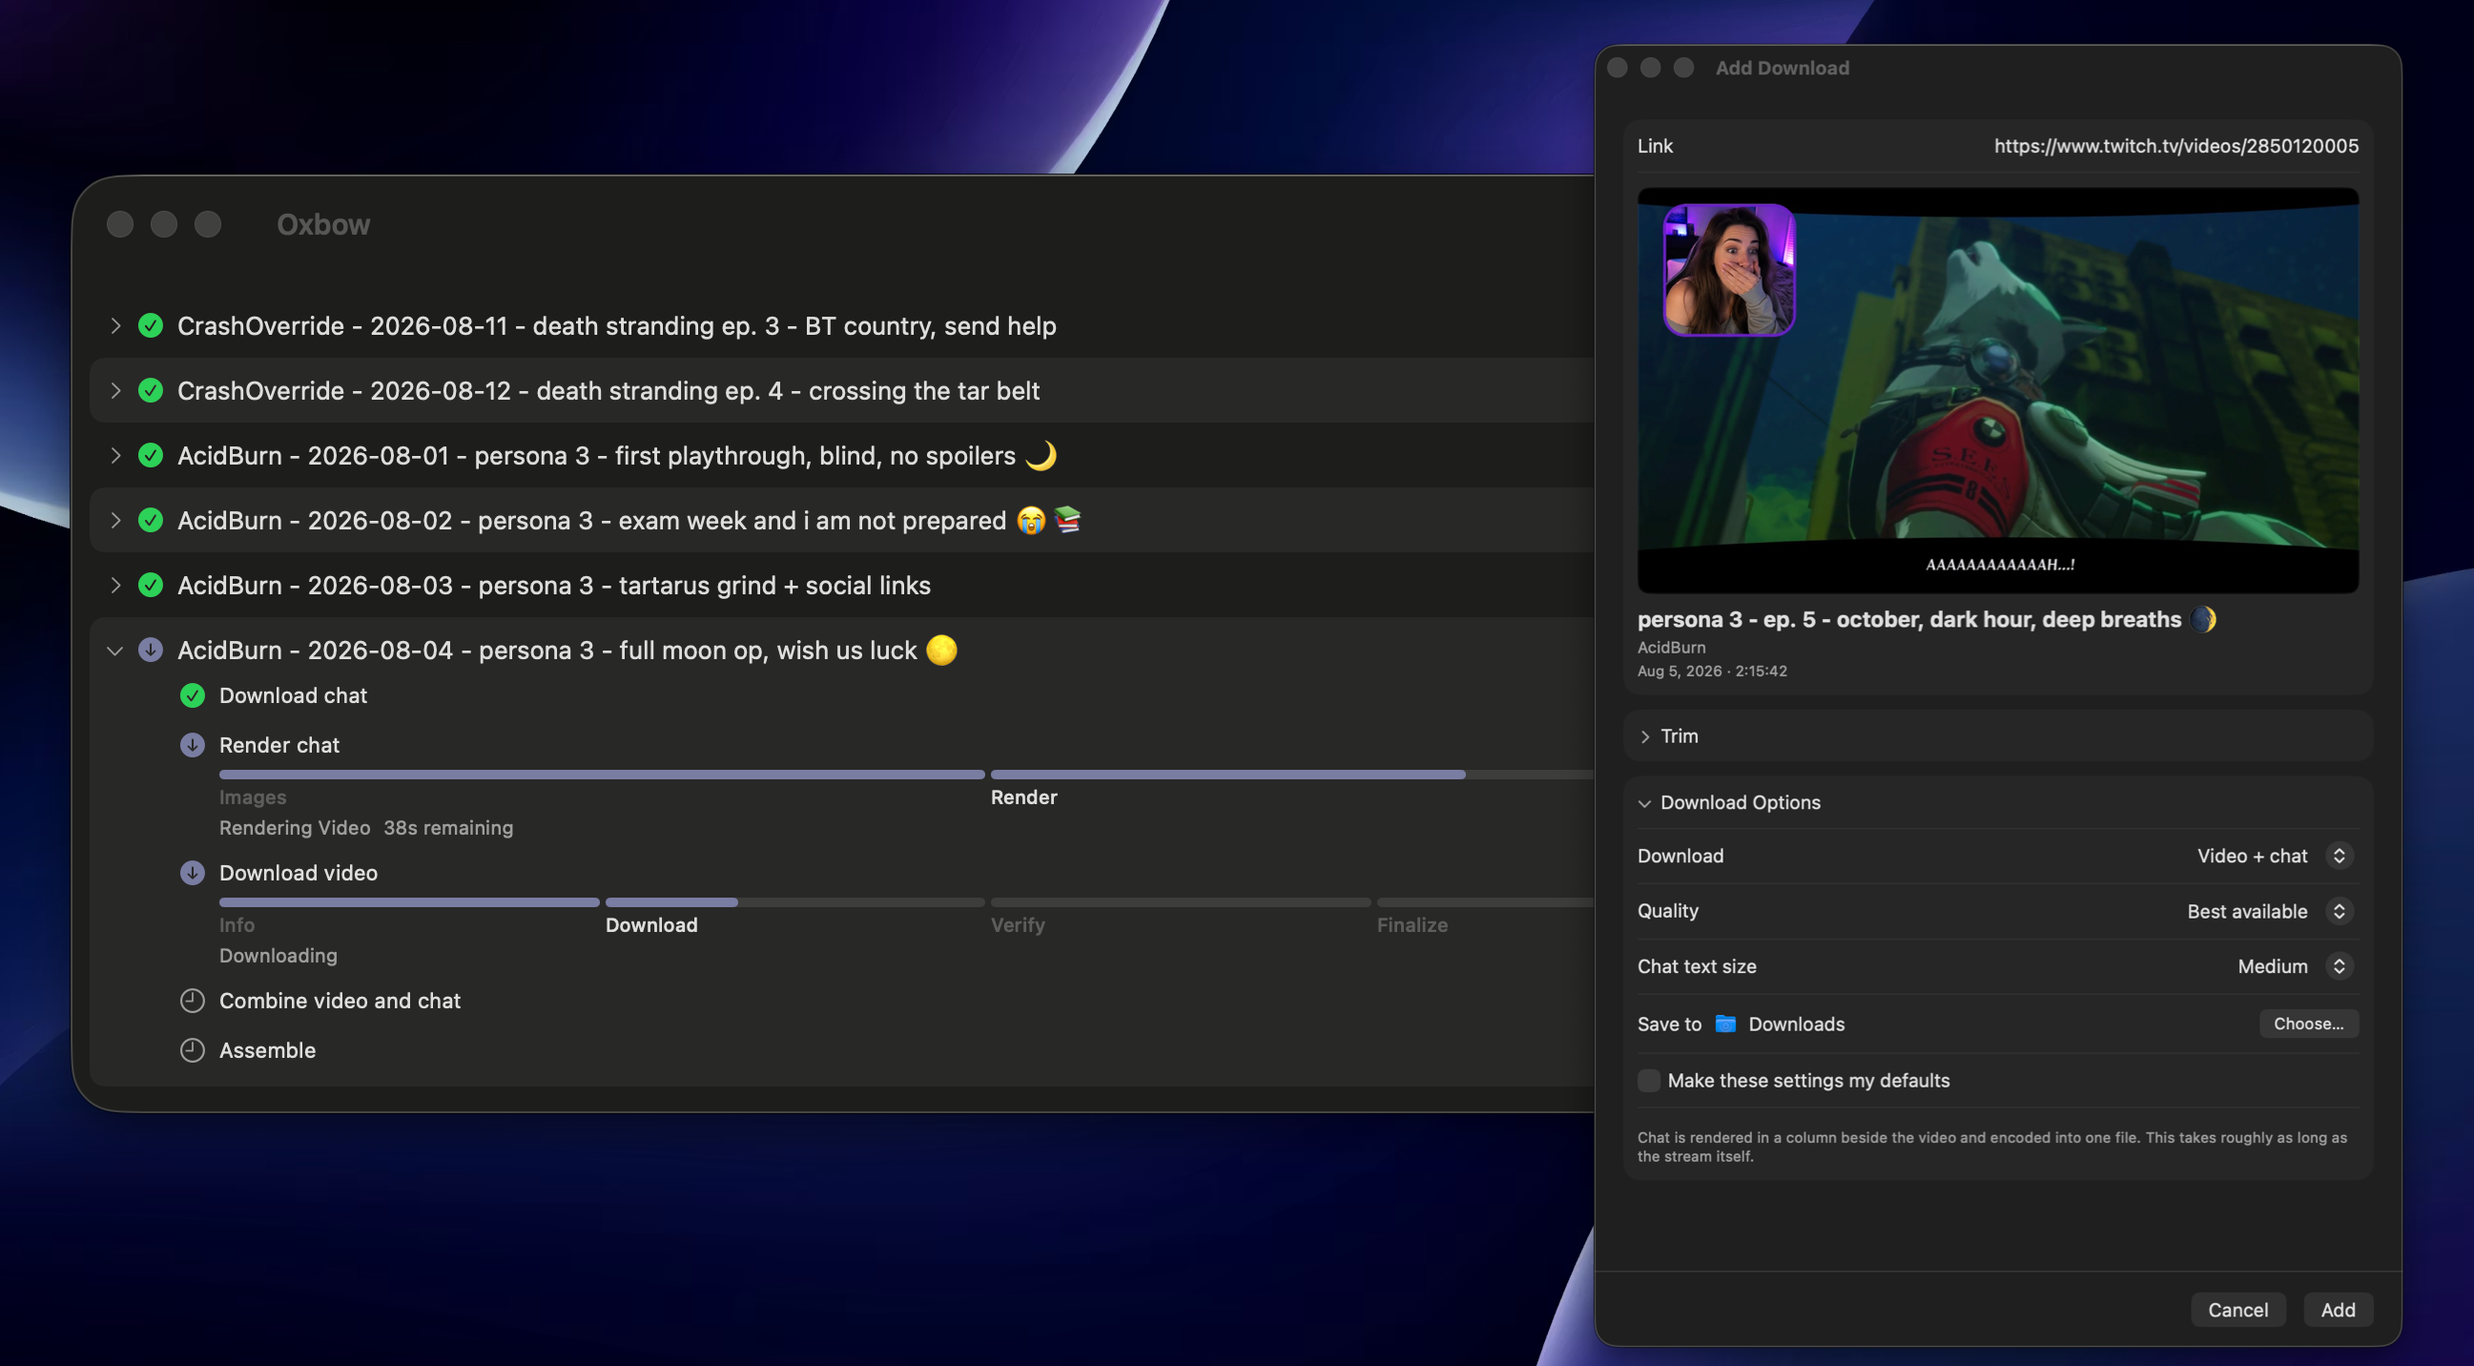
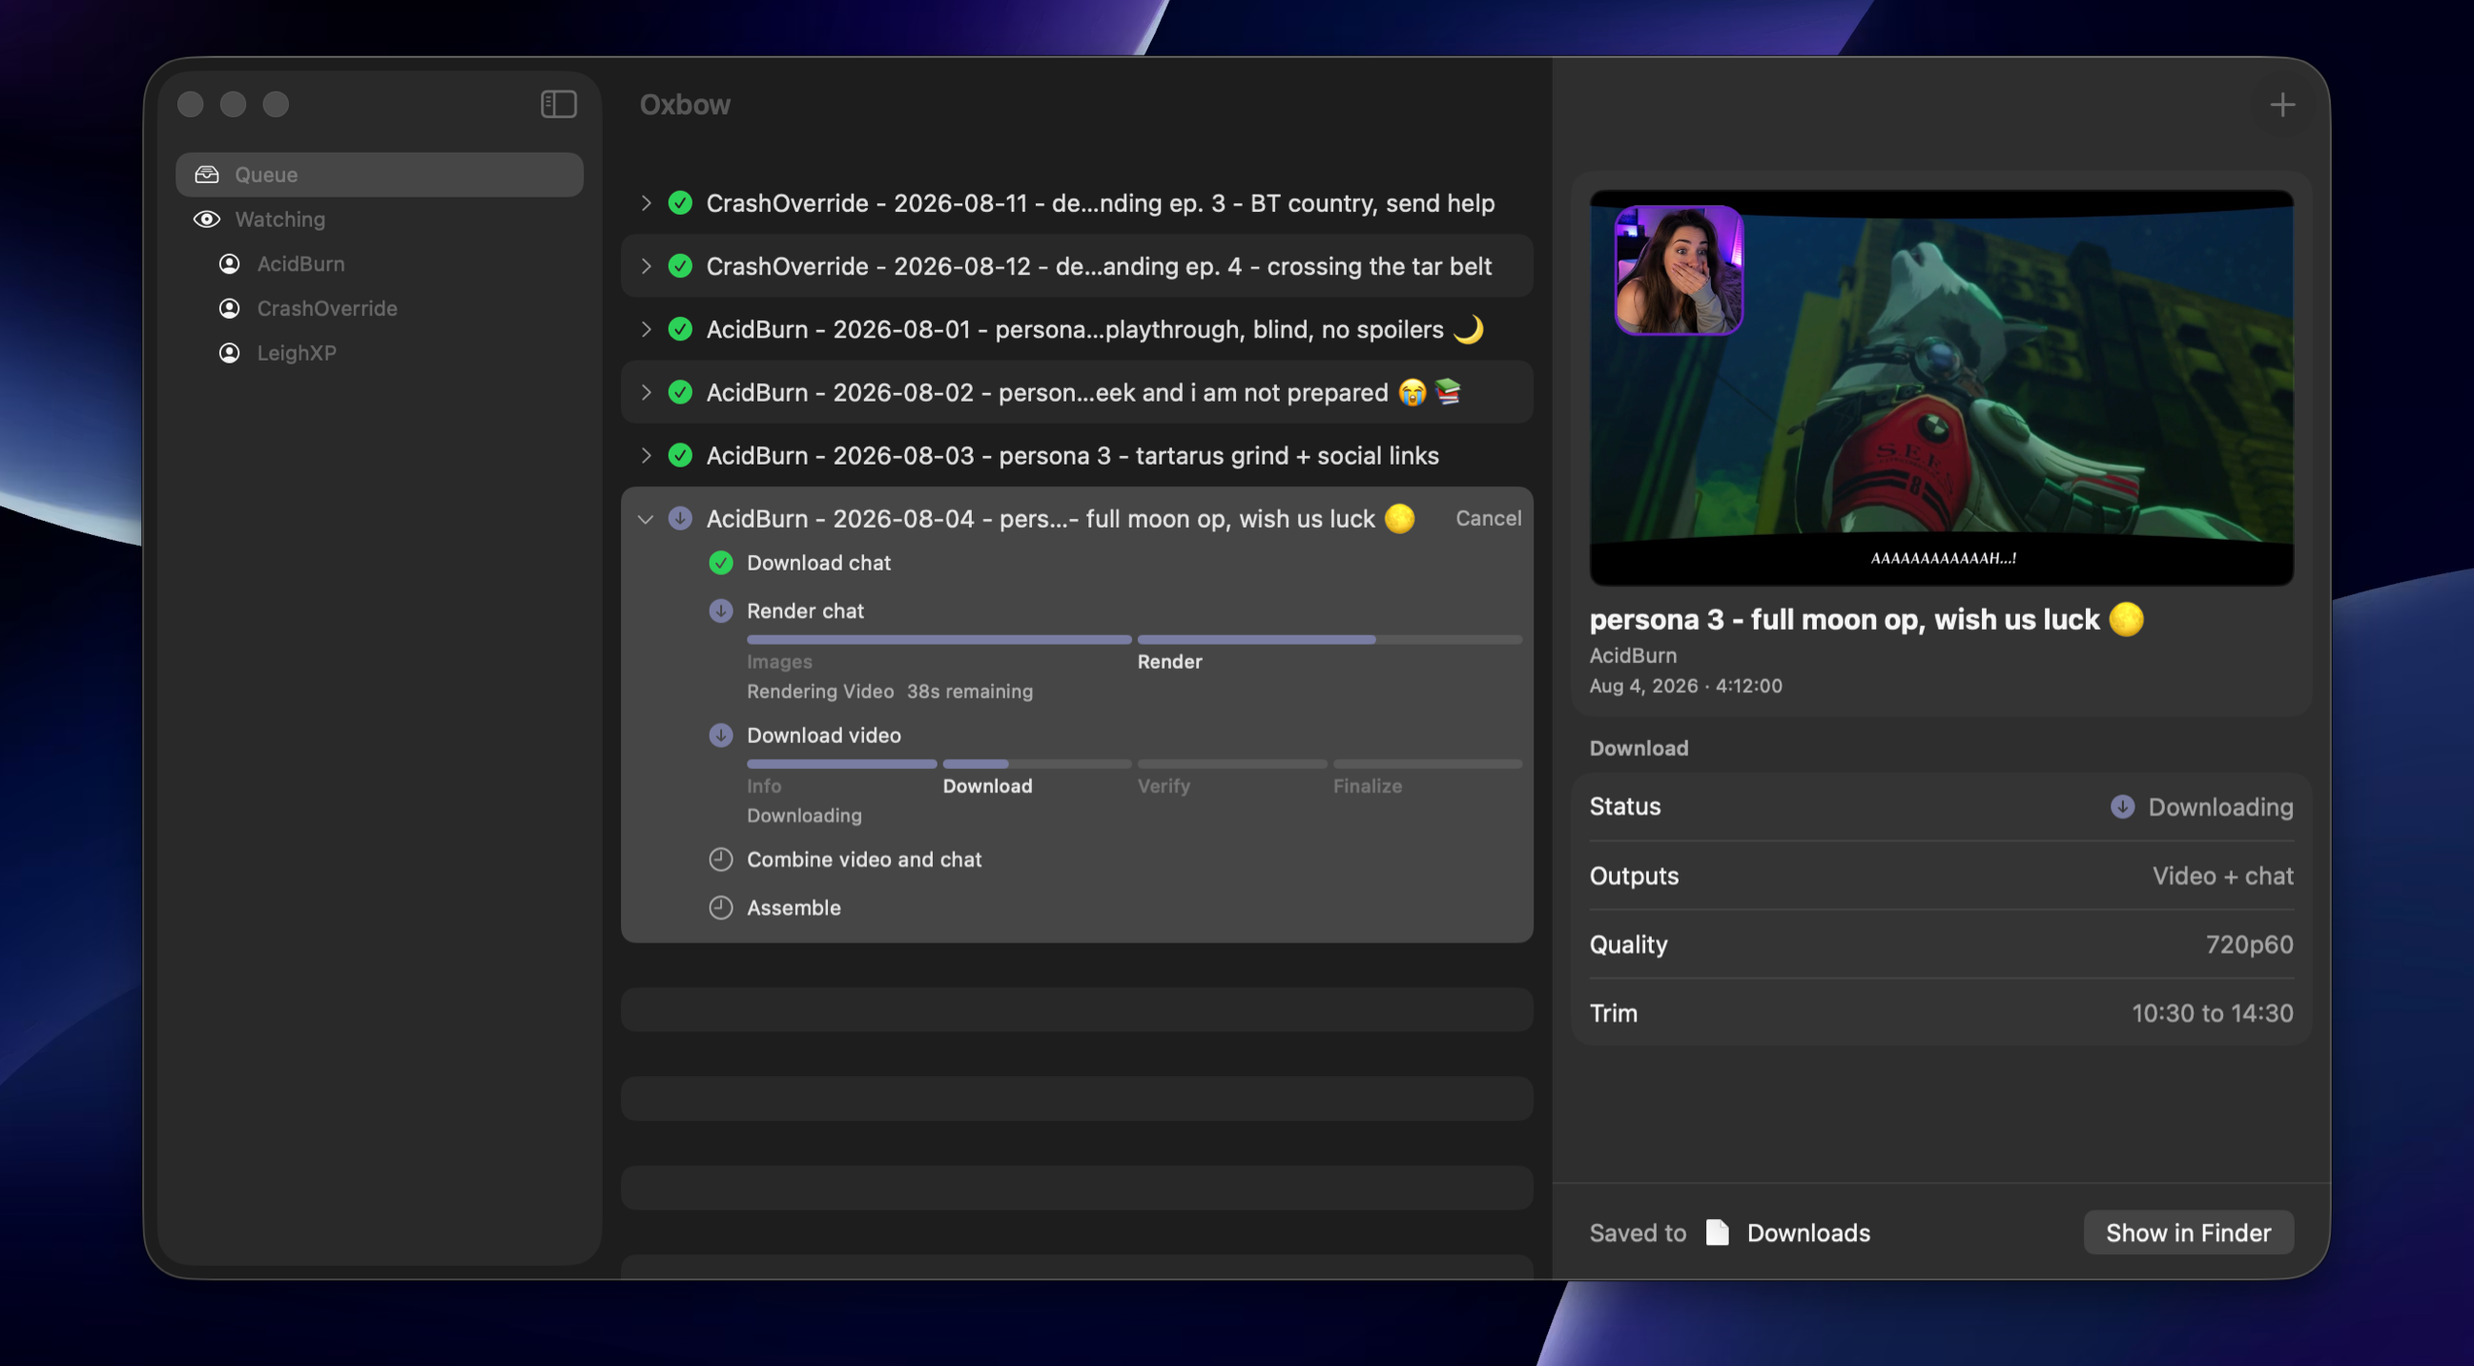
Rebuild the screenshot harness around the permanent inspector
The published screenshot was made before the sidebar existed, and every part
of the harness that produced it had an assumption the inspector broke.

**The hero is one window now.** It used to place the queue at the left margin
with the intake sheet overlapping its right side, which was fine while that
edge held nothing but the ends of job titles. The inspector lives there now,
so the intake landed squarely on top of the feature. Rather than shuffle the
second window somewhere it fits less well, the composite shows the window that
contains the whole app — sidebar, channels, queue, inspector — centred, scaled
to the tighter of the two margins and never past 1:1. intake.png is still
captured for use on its own.

**The default capture size is 1180x660, up from 900x492.** 900 is below the
window's new 920pt floor, so the run would have asked for a size it could not
have and the composite's inset arithmetic — which derives the shadow padding
from the size it asked for — would have been wrong by the difference.

**The fixture has channels.** watches.json, written whole by make-fixture.py:
a Watch has no Swift-Codable exotica to get wrong by hand, unlike a queue. Two
of the three are streamers the queue is already full of, since a sidebar
naming channels nobody in the queue is watching reads as two screenshots
stitched together. No avatars — the URL would have to name a loopback port
chosen long after this file is written — so they draw their initials, which is
[…]

diff --git a/Oxbow/ScreenshotFixture.swift b/Oxbow/ScreenshotFixture.swift
@@ -161,14 +161,6 @@ extension ScreenshotFixture {
     directory != nil && ProcessInfo.processInfo.environment["OXBOW_FIXTURE_TRIM"] == "1"
   }
 
-  /// The job whose Job Info window should also be opened, if any.
-  static var infoJobID: UUID? {
-    guard directory != nil else { return nil }
-    guard let raw = ProcessInfo.processInfo.environment["OXBOW_FIXTURE_INFO_JOB"], !raw.isEmpty
-    else { return nil }
-    return UUID(uuidString: raw)
-  }
-
   /// Where the script is serving `fixture/thumbnail.jpg`, e.g.
   /// `http://127.0.0.1:8731`.
   static var thumbnailBase: URL? {
@@ -179,15 +171,26 @@ extension ScreenshotFixture {
   }
 
   /// The canned metadata `QueueController.fetchInfo` returns during a fixture
-  /// run, so the intake never reaches Twitch for a video that does not exist.
-  static var videoInfo: VideoInfo? {
+  /// run, so nothing reaches Twitch for a video that does not exist.
+  ///
+  /// **Keyed by id, with a fallback.** `videoinfo-<id>.json` answers for one
+  /// video and `videoinfo.json` for everything else. One canned answer for
+  /// every id was fine while the intake was the only surface asking, but the
+  /// inspector asks about the *selected job* — so a single answer put the
+  /// intake's video's title on a card next to a queue row naming a different
+  /// one. In a published screenshot that reads as a bug in the app rather
+  /// than a shortcut in the fixture.
+  static func videoInfo(for id: String) -> VideoInfo? {
     guard let directory else { return nil }
-    let url = directory.appending(path: "videoinfo.json")
-    guard
-      let data = try? Data(contentsOf: url),
-      let decoded = try? JSONDecoder().decode(ScreenshotVideoInfo.self, from: data)
-    else { return nil }
-    return decoded.resolved(thumbnailBase: thumbnailBase)
+    let candidates = ["videoinfo-\(id).json", "videoinfo.json"]
+    for name in candidates {
+      guard
+        let data = try? Data(contentsOf: directory.appending(path: name)),
+        let decoded = try? JSONDecoder().decode(ScreenshotVideoInfo.self, from: data)
+      else { continue }
+      return decoded.resolved(thumbnailBase: thumbnailBase)
+    }
+    return nil
   }
 }
 
@@ -201,17 +204,11 @@ extension ScreenshotFixture {
 struct ScreenshotIntakeOpener: View {
   @Environment(\.openWindow) private var openWindow
   let windowID: String
-  /// Job Info is a `WindowGroup(for: JobID.self)`, so it needs a value rather
-  /// than only a scene id — and one naming a job the fixture actually holds.
-  let infoWindowID: String
 
   var body: some View {
     Color.clear
       .frame(width: 0, height: 0)
       .onAppear {
-        if let job = ScreenshotFixture.infoJobID {
-          openWindow(id: infoWindowID, value: JobID(rawValue: job))
-        }
         guard ScreenshotFixture.link != nil else { return }
         openWindow(id: windowID)
         // Deliberately not activating the app.

diff --git a/Oxbow/OxbowApp.swift b/Oxbow/OxbowApp.swift
@@ -132,9 +132,7 @@ struct OxbowApp: App {
       #if DEBUG
       .background {
         ScreenshotWindowSizer()
-        ScreenshotIntakeOpener(
-          windowID: Self.intakeWindowID,
-          infoWindowID: Self.infoWindowID)
+        ScreenshotIntakeOpener(windowID: Self.intakeWindowID)
       }
       #endif
       // Its own task, not a step inside `setUp()`: the two are unrelated,
@@ -222,6 +220,16 @@ struct OxbowApp: App {
           directory: AppComposition.imageStoreURL(supportDirectory: support))
         videoRecordStore = VideoRecordStore(
           fileURL: AppComposition.videoRecordURL(supportDirectory: support))
+        // **Not during a screenshot run.** The fixture's channels are
+        // invented, so a sweep would spend the capture's first seconds
+        // failing to reach Twitch for three logins that do not exist and
+        // leave that on screen. The same reasoning as `QueueController`'s
+        // `runsWork: false`: a fixture run loads state and is looked at, it
+        // does not do work. `watching` above is still built, which is what
+        // puts the channels in the sidebar.
+        #if DEBUG
+        guard ScreenshotFixture.directory == nil else { return }
+        #endif
         poller = WatchPoller.live(supportDirectory: support)
         poller?.start()
       }

diff --git a/scripts/screenshots/window-id.swift b/scripts/screenshots/window-id.swift
@@ -83,12 +83,13 @@ guard !candidates.isEmpty else {
 }
 
 if let wantedTitle, !wantedTitle.isEmpty {
-  // Exact before substring, and it is load-bearing. A `WindowGroup(for:)`
-  // window is briefly titled with the application name before its content
-  // applies its own title, so while Job Info is settling there are two windows
-  // whose title contains "Oxbow" -- and a substring match would happily return
-  // the wrong one. Which it did: the queue capture came back 460x620, Job
-  // Info's default size, looking like a perfectly ordinary screenshot.
+  // Exact before substring, and it is load-bearing. A window is briefly titled
+  // with the application name before its content applies its own title, so
+  // while a second window is settling there are two whose title contains
+  // "Oxbow" -- and a substring match would happily return the wrong one. Which
+  // it did, back when this run also captured Job Info: the queue capture came
+  // back 460x620, Job Info's default size, looking like a perfectly ordinary
+  // screenshot.
   if let exact = candidates.first(where: { $0.title == wantedTitle }) {
     print(exact.id)
     exit(0)

diff --git a/Oxbow/Queue/QueueController.swift b/Oxbow/Queue/QueueController.swift
@@ -110,7 +110,7 @@ final class QueueController {
     // fixture payload would be a payload no helper produced, and a stamped
     // record claiming otherwise is worse than no record.
     #if DEBUG
-    if let canned = ScreenshotFixture.videoInfo {
+    if let canned = ScreenshotFixture.videoInfo(for: id) {
       return VideoInfoFetcher.Fetched(info: canned, payload: "")
     }
     #endif

diff --git a/scripts/screenshots/make-fixture.py b/scripts/screenshots/make-fixture.py
@@ -79,6 +79,49 @@ INTAKE = {
     "thumbnailPaths": ["thumbnail.jpg"],
 }
 INTAKE_LINK = "https://www.twitch.tv/videos/2850120005"
+
+# The metadata the *inspector* shows for the mid-flight job, which since the
+# inspector became permanent is on screen next to that job's own row. It has
+# to agree with TITLES[RUNNING_JOB]: one canned answer for every id used to be
+# enough, back when the intake was the only surface asking, but it put the
+# intake video's title on a card beside a queue row naming a different one.
+# `ScreenshotFixture.videoInfo(for:)` reads this by id, falling back to
+# videoinfo.json for everything else.
+RUNNING_INFO = {
+    "streamer": "AcidBurn",
+    "title": "persona 3 - full moon op, wish us luck 🌕",
+    "createdAt": "2026-08-04T19:42:00Z",
+    "durationSeconds": 15_120,
+    "qualities": [
+        {"name": "1080p60", "resolution": "1920x1080", "bitsPerSecond": 6_184_466},
+        {"name": "720p60", "resolution": "1280x720", "bitsPerSecond": 3_411_940},
+        {"name": "480p30", "resolution": "852x480", "bitsPerSecond": 1_427_697},
+    ],
+    "thumbnailPaths": ["thumbnail.jpg"],
+}
+
+# The watch list. Written whole rather than transformed from a real
+# watches.json, unlike queue.json above: a `Watch` is four scalars, a settings
+# struct and a set of ids, with no Swift-Codable exotica to get wrong by hand.
+#
+# Two of the three are the streamers the queue is already full of, because a
+# screenshot where the sidebar names channels nobody in the queue is watching
+# reads as two unrelated screenshots stitched together. The third is watched
+# but quiet, which is the ordinary case and worth showing.
+#
+# No `avatarURL`: it would have to name the loopback port scripts/screenshots.sh
+# picks at random, and this file is written long before that port exists. The
+# channels draw their initials instead, which is also what a real watch added
+# before avatars existed does.
+#
+# `destinationPath` is deliberately not under a real home directory — it can
+# surface on a channel card, and this file is published.
+WATCHES = [
+    ("crashoverride", "CrashOverride", True),
+    ("acidburn", "AcidBurn", True),
+    ("leighxp", "LeighXP", False),
+]
+WATCH_DESTINATION = "/Users/you/Movies/Oxbow"
 RUNNING_PLAN = {
     "downloadChat": ("done", {"phase": "Writing Output File", "fraction": 1}),
     "renderChat": ("running", {"phase": "Rendering Video", "fraction": 0.62,
@@ -245,16 +288,38 @@ def main():
     # two places holding that independently is two places to forget.
     (OUT.parent / "expand.txt").write_text(TITLES[RUNNING_JOB] + "\n")
     (OUT.parent / "videoinfo.json").write_text(json.dumps(INTAKE, indent=2) + "\n")
-    # The mid-flight job's own id. Job Info is a `WindowGroup(for: JobID.self)`,
-    # so opening it needs an id rather than just a window name -- and it has to
-    # be one the fixture contains. The job's id is the first `rawValue` the
-    # walk above assigns, hence ordinal 0.
-    (OUT.parent / "infojob.txt").write_text(stable_uuid(RUNNING_JOB, 0) + "\n")
     (OUT.parent / "link.txt").write_text(INTAKE_LINK + "\n")
+    # Named by the id `scrub` gives the mid-flight job, so the two cannot
+    # drift apart the way a hardcoded id would.
+    running_id = f"20000000{RUNNING_JOB:02d}"
+    (OUT.parent / f"videoinfo-{running_id}.json").write_text(
+        json.dumps(RUNNING_INFO, indent=2, ensure_ascii=False) + "\n")
+    # The watch list, in WatchStore's envelope. `seen` is what stops a channel
+    # reading as never-polled once a sweep does run; the ids are invented on
+    # the same pattern as the queue's, so nothing here resolves to a real VOD.
+    (OUT.parent / "watches.json").write_text(json.dumps({
+        "version": 1,
+        "watches": [
+            {
+                "login": login,
+                "displayName": name,
+                "settings": {
+                    "destinationPath": WATCH_DESTINATION,
+                    "qualityCap": "best",
+                    "output": "videoWithChat",
+                    "chatSize": "medium",
+                },
+                "downloadsAutomatically": auto,
+                "seen": [f"3000000{index}{ordinal}" for ordinal in range(3)],
+            }
+            for index, (login, name, auto) in enumerate(WATCHES)
+        ],
+    }, indent=2) + "\n")
 
     print(f"wrote {OUT.relative_to(Path.cwd()) if OUT.is_relative_to(Path.cwd()) else OUT}")
     print(f"  {len(rebuilt)} jobs, job {RUNNING_JOB} caught mid-flight")
     print(f"  intake: {INTAKE['streamer']} - {INTAKE['title']}")
+    print(f"  watching: {', '.join(name for _, name, _ in WATCHES)}")
 
 
 if __name__ == "__main__":

diff --git a/docs/development.md b/docs/development.md
@@ -475,6 +475,19 @@ with. The pieces:
   second Oxbow beside whatever you already have open, and matching on the name
   captured the developer's real queue — silently, since the image looked
   perfectly correct.
+- `scripts/screenshots/fixture/watches.json` is the watch list, written whole
+  by `make-fixture.py` rather than transformed from a real one: a `Watch` has no
+  Swift-Codable exotica to get wrong by hand. Two of its three channels are the
+  streamers the queue is full of, because a sidebar naming channels nobody in
+  the queue is watching reads as two screenshots stitched together. The poller
+  does **not** run on a fixture launch — same reasoning as `runsWork: false`
+  above, since a sweep would spend the capture failing to reach Twitch for three
+  logins that do not exist.
+- `ScreenshotFixture.videoInfo(for:)` answers per video id —
+  `videoinfo-<id>.json` first, `videoinfo.json` otherwise. One canned answer for
+  every id was enough while the intake was the only surface asking; the
+  inspector asks about the *selected job*, so a single answer put one video's
+  title on a card beside a row naming another.
 
 It needs Screen Recording permission for your terminal; without it
 `screencapture` writes a blank file rather than failing, so the script checks

diff --git a/README.md b/README.md
@@ -22,7 +22,7 @@
 favorite streams end up on your Mac, ready for the flight, the commute, or
 anywhere the wifi gives up.*
 
-<img src="docs/screenshot.png" alt="Oxbow's queue, with a multi-step job mid-flight showing per-step progress" width="100%">
+<img src="docs/screenshot.png" alt="Oxbow's window: watched channels in the sidebar, a queue with a multi-step job mid-flight showing per-step progress, and the inspector describing the selected download" width="100%">
 
 ## What it does
 
